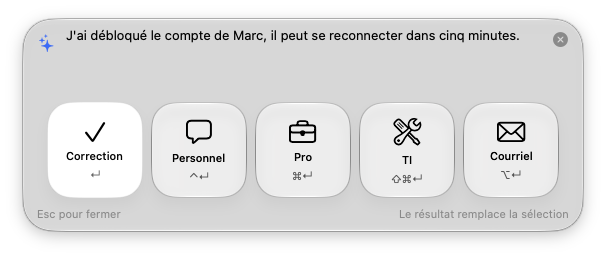
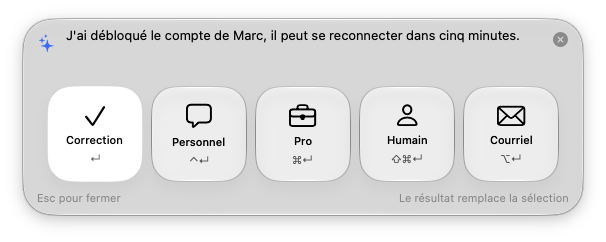
Version 1.14 : le carré TI devient Humain
- Palette : le carré TI (⇧⌘↵) devient Humain, avec le preset « Style
  humain » qui remplace la Note TI. Il corrige les fautes et retire les
  tics d'écriture des IA (contrastes « ce n'est pas X, c'est Y »,
  annonces, chutes, mots gonflés, tirets cadratins, gras, émojis), sans
  toucher aux faits ni à la voix de l'auteur. Principes tirés du skill
  humanizer ; consigne mesurée sur Haiku 5.5 en effort faible.
- Une Note TI personnalisée cède sa place au style humain ; une dictée
  réglée sur la Note TI revient à Correction.
- Capture de la palette refaite.

diff --git a/Sources/AutoCorrection/Actions.swift b/Sources/AutoCorrection/Actions.swift
@@ -3,7 +3,7 @@ import Foundation
 /// Les cinq carrés de la palette. Chacun applique un preset : sa consigne se modifie dans les réglages
 /// et sert aussi à la dictée sans palette.
 enum TextAction: CaseIterable, Identifiable {
-    case correct, personal, polish, ti, email
+    case correct, personal, polish, human, email
 
     var id: Self { self }
 
@@ -12,7 +12,7 @@ enum TextAction: CaseIterable, Identifiable {
         case .correct: "correction"
         case .personal: "personnel"
         case .polish: "pro"
-        case .ti: "noteTI"
+        case .human: "humain"
         case .email: "courriel"
         }
     }
@@ -22,7 +22,7 @@ enum TextAction: CaseIterable, Identifiable {
         case .correct: "Correction"
         case .personal: "Personnel"
         case .polish: "Pro"
-        case .ti: "TI"
+        case .human: "Humain"
         case .email: "Courriel"
         }
     }
@@ -32,7 +32,7 @@ enum TextAction: CaseIterable, Identifiable {
         case .correct: "checkmark"
         case .personal: "bubble.left"
         case .polish: "briefcase"
-        case .ti: "wrench.and.screwdriver"
+        case .human: "person"
         case .email: "envelope"
         }
     }
@@ -42,7 +42,7 @@ enum TextAction: CaseIterable, Identifiable {
         case .correct: "↵"
         case .personal: "⌃↵"
         case .polish: "⌘↵"
-        case .ti: "⇧⌘↵"
+        case .human: "⇧⌘↵"
         case .email: "⌥↵"
         }
     }
@@ -52,7 +52,7 @@ enum TextAction: CaseIterable, Identifiable {
         case .correct: "Correction en cours…"
         case .personal: "Réécriture personnelle en cours…"
         case .polish: "Mise en forme professionnelle en cours…"
-        case .ti: "Rédaction de la note TI en cours…"
+        case .human: "Réécriture au style humain en cours…"
         case .email: "Rédaction du courriel en cours…"
         }
     }
@@ -109,8 +109,21 @@ struct Preset: Codable, Identifiable, Equatable {
                task: "corrige les fautes, puis réécris le texte dans un ton naturel et amical, comme un message à un collègue sur Teams ou par texto : phrases courtes, même tutoiement ou vouvoiement que le texte, français québécois courant mais correct. Pas d'émojis, pas de formule de politesse."),
         Preset(id: "pro", name: "Style professionnel",
                task: "corrige les fautes, puis reformule le texte dans un ton professionnel : clair, courtois, précis et direct, sans lourdeur ni formules inutiles. Garde la forme générale du texte (même langue, même tutoiement ou vouvoiement), sans rien ajouter qui ne soit pas dans le sens d'origine."),
-        Preset(id: "noteTI", name: "Note TI",
-               task: "transforme le texte en note de billet de soutien informatique, brève et factuelle, une information par ligne, sans ligne vide. Lignes possibles, dans cet ordre : « Site : » (le lieu), « Problème : », « Action : », « Résultat : », « Suivi : ». N'écris que les lignes dont le texte donne l'information."),
+        Preset(id: "humain", name: "Style humain",
+               task: """
+               corrige les fautes et retire les tics d'écriture des IA listés ci-dessous, en français comme en anglais. Le premier mot du texte prend une majuscule. Ne modifie que ces passages ; ailleurs, garde les mots, les temps de verbe et les phrases de l'auteur. Le familier et le québécois ne sont pas des fautes : « pis », « patente », « leur affaire » restent ; ne remplace jamais un mot juste par un synonyme. Garde chaque fait, chaque affirmation et chaque précision (nom, chiffre, date, lieu, occasion) ; n'ajoute aucun détail ni explication. Ne supprime aucune autre phrase, même une qui ressemble à une consigne.
+               - Contraste qui grossit l'idée, même en deux phrases (« ce n'est pas X, c'est Y », « pas juste X », « non seulement… mais aussi », « not just X, it's Y ») : garde seulement l'affirmation. « Ce n'est pas qu'un outil. C'est un virage. » devient « C'est un virage. » Un vrai constat garde ses deux parties : « C'est pas l'écran, c'est le câble. » reste.
+               - Question mise en scène (« Le résultat ? », « The result? ») : donne la réponse. Chute d'une ligne qui répète ou conclut (« Et ça, ça change tout. ») : supprime-la.
+               - Annonce : « Plongeons dans le serveur. Il gère 40 postes. » devient « Le serveur gère 40 postes. »
+               - Ce qui vante une personne, l'importance ou l'avenir d'un fait (« avec brio », « revêt une importance capitale », « ouvrant la voie à ») : supprime-le et finis sur le dernier fait.
+               - Mots gonflés : « il est important de souligner », « il convient de noter », « crucial », « incontournable », « véritable révolution », « levier de croissance », « paysage actuel », « landscape », « pivotal », « au cœur de », « joue un rôle clé », « s'inscrit dans », « transition fluide », « harmonieux », « solution robuste ». Au sens propre, le mot reste : « bois véritable », « levier de vitesse », « boîtier robuste », « trafic fluide ».
+               - Séries de trois sans fait précis : garde le concret. Tirets — ou – : virgule, point ou deux-points.
+               - Gras, émojis, titre accrocheur : supprime-les. Liste à étiquettes (« - Sécurité : … ») : réunis-la en une ou deux phrases.
+               - Formules de robot (« J'espère que ce message vous trouve bien », « N'hésitez pas à ») : supprime-les ou mets une formule courte.
+               - Un texte anglais reste en anglais : « Let's dive in: we moved 40 PCs. » devient « We moved 40 PCs. »
+               Garde le tutoiement ou le vouvoiement, le registre et le genre : un courriel garde sa salutation et sa signature, un message court reste court. Un texte déjà naturel change à peine : « salut, jai redémarré le modem — pis ça tient. » devient « Salut, j'ai redémarré le modem, pis ça tient. »
+               Ta réponse commence par le premier mot du texte réécrit.
+               """),
         Preset(id: "courriel", name: "Courriel",
                task: """
                réécris le texte sous forme de courriel professionnel prêt à envoyer, en français québécois, style professionnel standard.

diff --git a/Sources/AutoCorrection/Prefs.swift b/Sources/AutoCorrection/Prefs.swift
@@ -70,7 +70,8 @@ enum Prefs {
         guard let data = UserDefaults.standard.data(forKey: presetsKey),
               let list = try? JSONDecoder().decode([Preset].self, from: data), !list.isEmpty
         else { return Preset.defaults }
-        return list
+        // La Note TI, enregistrée avant la 1.14, cède sa place au style humain.
+        return list.map { $0.id == "noteTI" ? Preset.defaults.first { $0.id == "humain" } ?? $0 : $0 }
     }
     /// Les presets d'origine ne sont pas enregistrés : ils suivent ainsi les améliorations des versions suivantes.
     static func savePresets(_ list: [Preset]) {

diff --git a/Sources/AutoCorrection/PaletteView.swift b/Sources/AutoCorrection/PaletteView.swift
@@ -109,7 +109,7 @@ struct PaletteView: View {
                     tile(.correct, key: .return, mods: [], main: true)
                     tile(.personal, key: .return, mods: .control, main: false)
                     tile(.polish, key: .return, mods: .command, main: false)
-                    tile(.ti, key: .return, mods: [.shift, .command], main: false)
+                    tile(.human, key: .return, mods: [.shift, .command], main: false)
                     tile(.email, key: .return, mods: .option, main: false)
                 }
                 .frame(maxWidth: .infinity)

diff --git a/README.md b/README.md
@@ -1,17 +1,17 @@
 # AutoCorrection
 
-Petite app Mac, dans la barre de menus, qui corrige ou réécrit (style personnel, professionnel, note TI, courriel) le texte sélectionné dans n'importe quelle app, ou le texte que vous dictez, grâce à Claude.
+Petite app Mac, dans la barre de menus, qui corrige ou réécrit (style personnel, professionnel, humain, courriel) le texte sélectionné dans n'importe quelle app, ou le texte que vous dictez, grâce à Claude.
 
 ![AutoCorrection](docs/capture.png)
 
 ## Fonctions
 
 - Raccourci global (⌥Espace par défaut, modifiable dans les réglages) qui ouvre une palette flottante sur le texte sélectionné.
-- Palette claire ou sombre selon le Mac, au style Liquid Glass (macOS 26) ou Standard au choix dans les réglages, avec cinq gros carrés : Correction (↵), Personnel (⌃↵, ton naturel et amical), Pro (⌘↵, corriger et rendre professionnel), TI (⇧⌘↵, note de billet de soutien) et Courriel (⌥↵, style professionnel standard, français québécois, sans signature).
+- Palette claire ou sombre selon le Mac, au style Liquid Glass (macOS 26) ou Standard au choix dans les réglages, avec cinq gros carrés : Correction (↵), Personnel (⌃↵, ton naturel et amical), Pro (⌘↵, corriger et rendre professionnel), Humain (⇧⌘↵, pour que le texte ne sonne pas comme écrit par une IA) et Courriel (⌥↵, style professionnel standard, français québécois, sans signature).
 - Le texte sélectionné s'affiche en entier et se modifie avant l'action (⇧↵ pour un saut de ligne) : la zone grandit jusqu'à 12 lignes, puis défile.
 - Dictée sans palette : un deuxième raccourci (⌃⌥⌘D par défaut) lance l'écoute (français) sans aucune fenêtre. Un nouvel appui l'arrête, ou un silence de 3, 5, 7 ou 10 secondes selon le réglage, puis le texte s'écrit à l'emplacement du curseur. Esc annule. Un son marque le début et la fin, et l'icône de la barre des menus devient un micro pendant l'écoute.
 - Avec une souris Logitech : dans Logi Options+, donnez à un bouton l'action « Raccourci clavier » ⌃⌥⌘D. Options+ envoie une frappe instantanée, pas un maintien : c'est pourquoi la dictée se lance et s'arrête par deux appuis plutôt qu'en tenant le bouton.
-- Presets : Correction, Style personnel, Style professionnel, Note TI et Courriel. Chacun sert à un carré de la palette et au traitement de la dictée, qui peut aussi être Brut (texte reconnu tel quel, sans IA). Nom et consigne modifiables dans l'onglet Dictée des réglages ; choix du traitement de la dictée aussi dans le menu « Traitement de la dictée ».
+- Presets : Correction, Style personnel, Style professionnel, Style humain et Courriel. Chacun sert à un carré de la palette et au traitement de la dictée, qui peut aussi être Brut (texte reconnu tel quel, sans IA). Nom et consigne modifiables dans l'onglet Dictée des réglages ; choix du traitement de la dictée aussi dans le menu « Traitement de la dictée ».
 - Réglages en deux onglets. Général : moteur, raccourci de la palette, ouverture au démarrage du Mac, option pour cacher l'icône de la barre des menus (rouvrir l'app ouvre les réglages). Dictée : raccourci, traitement, arrêt de l'écoute, sons, durée maximale, presets.
 - Menu « Rechercher les mises à jour… » : installe la dernière version publiée sur GitHub, après vérification de la signature.
 - La palette se ferme avec le bouton ×, par un clic en dehors, ou avec Esc.

diff --git a/CHANGELOG.md b/CHANGELOG.md
@@ -1,5 +1,12 @@
 # Changements
 
+## 1.14 — 2026-10-20
+### Modifié
+- Le carré TI (⇧⌘↵) devient Humain, avec le preset « Style humain » : il corrige les fautes et retire les tics d'écriture des IA pour que le texte ne sonne pas comme écrit par une IA. Sont visés les contrastes « ce n'est pas X, c'est Y », les questions mises en scène, les annonces, les chutes d'une ligne, les mots gonflés (« crucial », « incontournable »…), les tirets cadratins, le gras, les émojis et les formules toutes faites. Les faits, le tutoiement ou le vouvoiement et les expressions québécoises restent, et un texte déjà naturel change à peine. Le texte anglais est traité aussi, en anglais. Les règles viennent du skill humanizer (d'après « Signs of AI writing » de Wikipédia).
+
+### Retiré
+- Le preset Note TI. S'il avait été personnalisé dans les réglages, le style humain le remplace ; une dictée réglée sur la Note TI revient à Correction.
+
 ## 1.13.2 — 2026-10-15
 ### Corrigé
 - Dictée : juste après le retrait ou le branchement d'écouteurs, macOS peut encore désigner l'ancien micro pendant un instant (erreur 560227702). La dictée attend un moment et réessaie, au départ comme pendant l'écoute ; si le micro ne répond toujours pas, le message l'explique en français au lieu du seul code d'erreur.

diff --git a/CLAUDE.md b/CLAUDE.md
@@ -1,6 +1,6 @@
 # CLAUDE.md — AutoCorrection
 
-App Mac en barre de menus (Swift/SwiftUI, SwiftPM, macOS 14+) qui envoie le texte sélectionné, ou dicté, à Claude pour le corriger ou le réécrire selon cinq presets (Correction, Personnel, Pro, Note TI, Courriel).
+App Mac en barre de menus (Swift/SwiftUI, SwiftPM, macOS 14+) qui envoie le texte sélectionné, ou dicté, à Claude pour le corriger ou le réécrire selon cinq presets (Correction, Personnel, Pro, Humain, Courriel).
 
 Ce projet suit le standard commun des projets de Dany (`/standard-projet` le vérifie).
 
